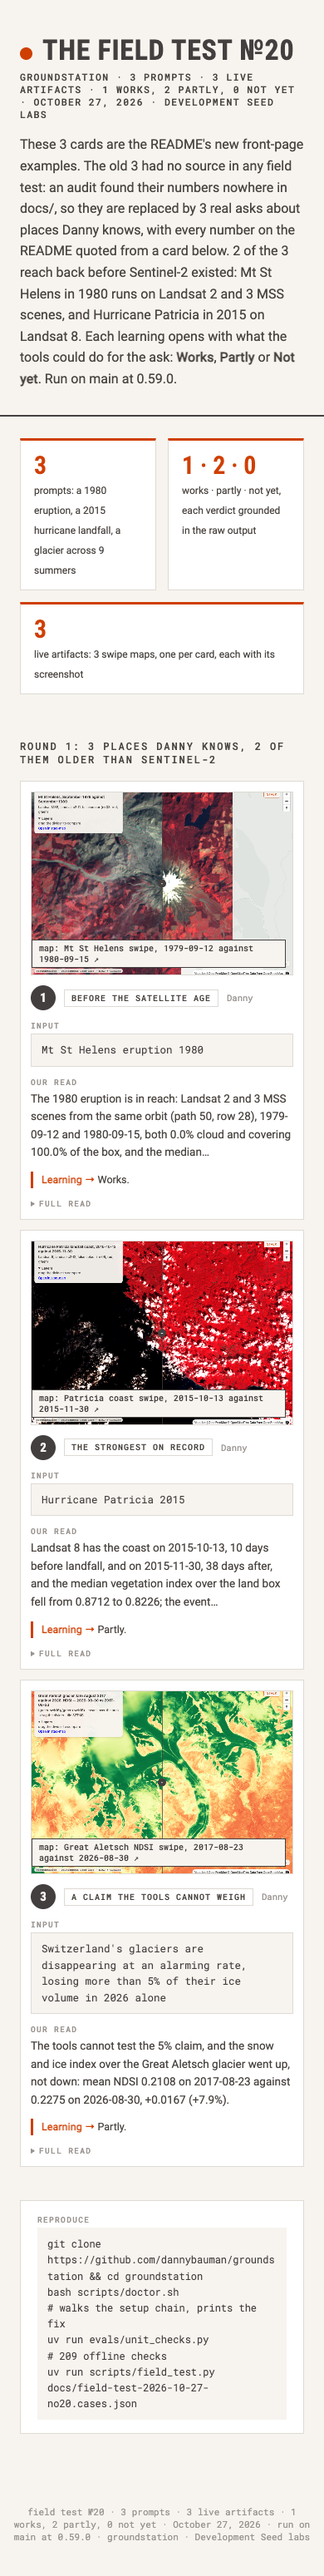
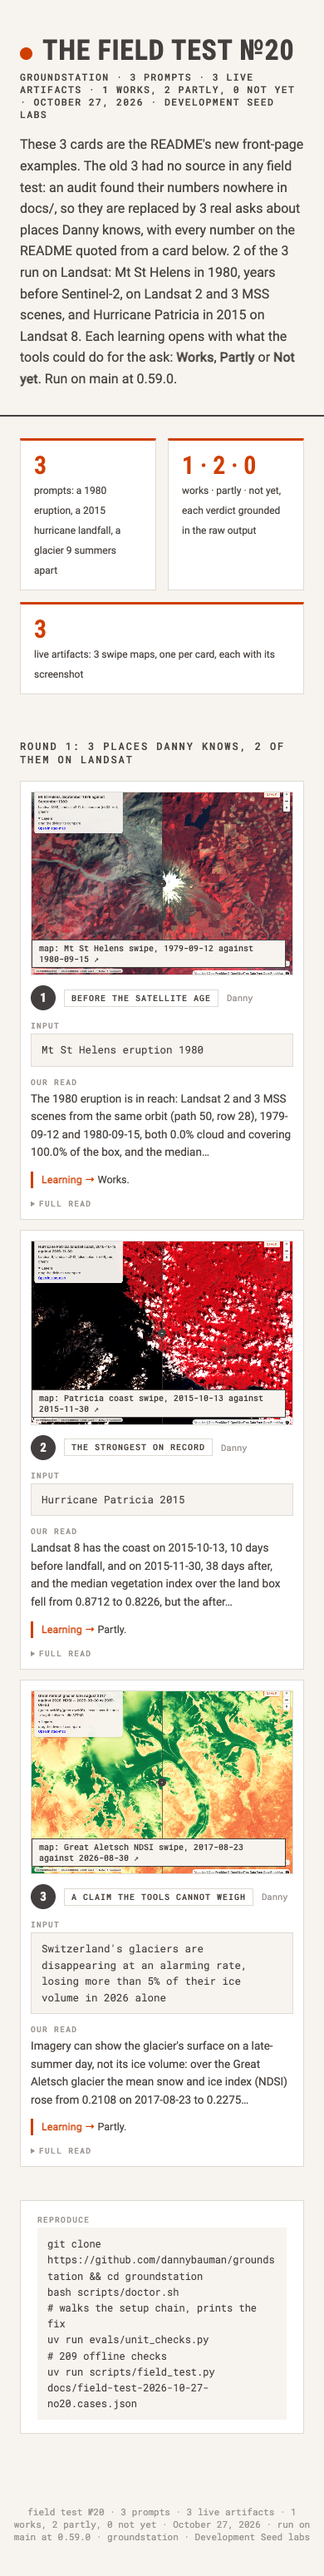
docs: README examples from field test 20

Changed region(s): [[0.0923, 0.7747, 0.8308, 0.8367], [0.0615, 0.093, 0.8615, 0.124], [0.7077, 0.3099, 0.9231, 0.3719]]

diff --git a/docs/field-test-2026-10-27-no20.html b/docs/field-test-2026-10-27-no20.html
@@ -83,24 +83,24 @@ footer { text-align: center; font: 400 11px 'Roboto Mono', monospace; color: var
 <header><div class="wrap">
   <h1><span class="dot"></span>THE FIELD TEST №20</h1>
   <div class="sub">groundstation · 3 prompts · 3 live artifacts · 1 works, 2 partly, 0 not yet · October 27, 2026 · Development Seed labs</div>
-  <p class="lede">These 3 cards are the README's new front-page examples. The old 3 had no source in any field test: an audit found their numbers nowhere in docs/, so they are replaced by 3 real asks about places Danny knows, with every number on the README quoted from a card below. 2 of the 3 reach back before Sentinel-2 existed: Mt St Helens in 1980 runs on Landsat 2 and 3 MSS scenes, and Hurricane Patricia in 2015 on Landsat 8. Each learning opens with what the tools could do for the ask: <b>Works</b>, <b>Partly</b> or <b>Not yet</b>. Run on main at 0.59.0.</p>
+  <p class="lede">These 3 cards are the README's new front-page examples. The old 3 had no source in any field test: an audit found their numbers nowhere in docs/, so they are replaced by 3 real asks about places Danny knows, with every number on the README quoted from a card below. 2 of the 3 run on Landsat: Mt St Helens in 1980, years before Sentinel-2, on Landsat 2 and 3 MSS scenes, and Hurricane Patricia in 2015 on Landsat 8. Each learning opens with what the tools could do for the ask: <b>Works</b>, <b>Partly</b> or <b>Not yet</b>. Run on main at 0.59.0.</p>
 </div></header>
 
 <div class="stats wrap" style="padding: 0 24px">
-  <div class="stat"><b>3</b><span>prompts: a 1980 eruption, a 2015 hurricane landfall, a glacier across 9 summers</span></div>
+  <div class="stat"><b>3</b><span>prompts: a 1980 eruption, a 2015 hurricane landfall, a glacier 9 summers apart</span></div>
   <div class="stat"><b>1 · 2 · 0</b><span>works · partly · not yet, each verdict grounded in the raw output</span></div>
   <div class="stat"><b>3</b><span>live artifacts: 3 swipe maps, one per card, each with its screenshot</span></div>
 </div>
 
 <main class="wrap">
-<h2 class="round">Round 1: 3 places Danny knows, 2 of them older than Sentinel-2</h2>
+<h2 class="round">Round 1: 3 places Danny knows, 2 of them on Landsat</h2>
 <div class="grid">
 <div class="card"><div class="top"><div class="num">1</div><div class="tag">before the satellite age</div><div class="who">Danny</div></div>
 <div><div class="label">Input</div><div class="prompt">Mt St Helens eruption 1980</div></div>
 <div><div class="label">Our read</div><div class="answer">The 1980 eruption is in reach: Landsat 2 and 3 MSS scenes from the same orbit (path 50, row 28), 1979-09-12 and 1980-09-15, both 0.0% cloud and covering 100.0% of the box, and the median…</div></div>
 <div class="headline"><b>Learning →</b> Works.</div>
 <a class="fig" href="img/ft20-st-helens-map.html" target="_blank" title="open the live artifact"><img src="img/ft20-st-helens-map.png" alt="artifact produced by example 1" loading="lazy"><span class="open">map: Mt St Helens swipe, 1979-09-12 against 1980-09-15 ↗</span></a>
-<details class="more"><summary>full read</summary><div class="answer"><div class="label">Our read</div><b>The 1980 eruption is in reach: Landsat 2 and 3 MSS scenes from the same orbit (path 50, row 28), 1979-09-12 and 1980-09-15, both 0.0% cloud and covering 100.0% of the box, and the median vegetation index over the box fell from 0.2691 to -0.0043.</b> describe_collection says landsat-c2-l1 holds MSS scenes from Landsat 1 to 5, 1972 to 2013, and landsat-c2-l2 starts on 1982-08-22, so the L1 collection is the only one here that reaches 1980. The items carry 4 bands: green, red, nir08 and nir09. Spring 1980 has no clear scene (6 scenes, 42.0% to 98.0% cloud), so the before is the summer of 1979, one year and 3 days before the after. On the index (nir08-red)/(nir08+red), the mean over the 0.30 by 0.20 degree box went from 0.2397 to 0.0737 and the median from 0.2691 to -0.0043. compare_dates refused ("0 after, 0 before"): it searches only Sentinel-2. The swipe map draws both MSS scenes in false colour; the 1980 side shows the grey blast zone north of the crater where the 1979 side is red forest (my reading of the image).</div>
+<details class="more"><summary>full read</summary><div class="answer"><div class="label">Our read</div><b>The 1980 eruption is in reach: Landsat 2 and 3 MSS scenes from the same orbit (path 50, row 28), 1979-09-12 and 1980-09-15, both 0.0% cloud and covering 100.0% of the box, and the median vegetation index over the box fell from 0.2691 to -0.0043.</b> describe_collection says landsat-c2-l1 holds MSS scenes from Landsat 1 to 5, 1972 to 2013, and landsat-c2-l2 starts on 1982-08-22, so the L1 collection is the only one here that reaches 1980. The collection lists 4 bands: green, red, nir08 and nir09. Spring 1980 has no clear scene (6 scenes, 42.0% to 98.0% cloud), so the before is the summer of 1979, one year and 3 days before the after. On the index (nir08-red)/(nir08+red), the mean over the 0.30 by 0.20 degree box went from 0.2397 to 0.0737 and the median from 0.2691 to -0.0043. compare_dates could not be used ("0 after, 0 before"): it searches only Earth Search Sentinel-2. The index is on top-of-atmosphere radiance, so it is not comparable with a modern NDVI. The swipe map draws both MSS scenes in false colour; left of the divider the 1980 scene shows a grey blast zone north and west of the crater, and right of it the 1979 scene shows red forest and a snow-capped peak (my reading of the image).</div>
 <details class="data"><summary>show the data</summary><div class="returned">search_datasets("landsat", catalog="planetary-computer")
   8 hits: hls2-l30, hls2-s30, jrc-gsw, landsat-c2-l1 (gsd 79.0), landsat-c2-l2 (gsd 30.0), nrcan-landcover, usgs-lcmap-conus-v13, usgs-lcmap-hawaii-v10
 
@@ -148,16 +148,16 @@ compute_statistics("planetary-computer", "landsat-c2-l1", "LM03_L1TP_050028_1980
 render_map("Mt St Helens, September 1979 against September 1980", bbox=[-122.35, 46.10, -122.05, 46.30], compare=True, layers=[LM02_L1TP_050028_19790912_02_T2 and LM03_L1TP_050028_19800915_02_T2, assets [nir08, red, green], rescale "0,100"], out_path="docs/img/ft20-st-helens-map.html")
   map_path: docs/img/ft20-st-helens-map.html   compare: true   coverage_pct: 100.0
   2 raster layers, tiles from planetarycomputer.microsoft.com/api/data/v1/mosaic/..., rescale_basis: given</div></details>
-<div class="learning"><b>Learning →</b> <b>Works.</b> The catalogs confirmed the 1972 MSS archive from describe_collection, not from memory; search_imagery found 20 summer scenes each year; compute_statistics and render_map both took landsat-c2-l1 items as they are. The one tool that could not help is compare_dates, which has no collection argument and searches Earth Search sentinel-2-l2a only (it returns the plain "Not enough scenes" error, not a reason). 2 things to know about the figure. First, the scaling compute_statistics applied is the item's own, and its unit is watt/steradian/square_meter/micrometer: this is an index on top-of-atmosphere radiance, not surface reflectance, so it is not comparable to a Landsat 8 or Sentinel-2 NDVI, and the 2 scenes come from 2 sensors (Landsat 2 and Landsat 3) with different gains. Second, the box holds forest, lakes and the cone, so the drop of 0.2734 in the median is the whole box, not the blast zone alone. Not checked: the share of the box that went from vegetated to bare (the tools give no per-pixel threshold count), sun angle and haze between 1979-09-12 and 1980-09-15, the qa_pixel band, and whether the east edge of the 1979 layer, which ends partway across the screenshot, is the scene's footprint or tiles that had not drawn.</div>
+<div class="learning"><b>Learning →</b> <b>Works.</b> The catalog confirmed the 1972 MSS archive from describe_collection, not from memory; search_imagery returned 20 summer scenes each year, the limit asked for; compute_statistics and render_map both took landsat-c2-l1 items as they are. The one tool that could not help is compare_dates, which has no collection argument and searches Earth Search sentinel-2-l2a only (that is in its code; the output is the plain "Not enough scenes" error, not a reason). 2 things to know about the figure. First, the scaling compute_statistics applied is the item's own, and its unit is watt/steradian/square_meter/micrometer: this is an index on top-of-atmosphere radiance, not surface reflectance, so it is not comparable to a Landsat 8 or Sentinel-2 NDVI, and the 2 scenes come from 2 sensors (Landsat 2 and Landsat 3) with different gains. Second, the box holds forest, lakes and the cone, so the drop of 0.2734 in the median is the whole box, not the blast zone alone. Not checked: the share of the box that went from vegetated to bare (the tools give no per-pixel threshold count), sun angle and haze between 1979-09-12 and 1980-09-15, and the qa_pixel band. The first screenshot had the 1979 layer stop partway across the east and south of the frame; a retake with 8 more seconds after network idle drew it to the edges, so that was tiles still loading, not the scene's footprint.</div>
 <div class="shows">describe_collection confirms MSS from 1972 · landsat-c2-l2 starts 1982-08-22 · band ids green, red, nir08, nir09 · no clear spring 1980 scene · compare_dates is Sentinel-2 only · median index 0.2691 to -0.0043 · swipe map of 2 MSS scenes</div></details>
 </div>
 
 <div class="card"><div class="top"><div class="num">2</div><div class="tag">the strongest on record</div><div class="who">Danny</div></div>
 <div><div class="label">Input</div><div class="prompt">Hurricane Patricia 2015</div></div>
-<div><div class="label">Our read</div><div class="answer">Landsat 8 has the coast on 2015-10-13, 10 days before landfall, and on 2015-11-30, 38 days after, and the median vegetation index over the land box fell from 0.8712 to 0.8226; the event…</div></div>
+<div><div class="label">Our read</div><div class="answer">Landsat 8 has the coast on 2015-10-13, 10 days before landfall, and on 2015-11-30, 38 days after, and the median vegetation index over the land box fell from 0.8712 to 0.8226, but the after…</div></div>
 <div class="headline"><b>Learning →</b> Partly.</div>
 <a class="fig" href="img/ft20-patricia-map.html" target="_blank" title="open the live artifact"><img src="img/ft20-patricia-map.png" alt="artifact produced by example 2" loading="lazy"><span class="open">map: Patricia coast swipe, 2015-10-13 against 2015-11-30 ↗</span></a>
-<details class="more"><summary>full read</summary><div class="answer"><div class="label">Our read</div><b>Landsat 8 has the coast on 2015-10-13, 10 days before landfall, and on 2015-11-30, 38 days after, and the median vegetation index over the land box fell from 0.8712 to 0.8226; the event feeds do not reach 2015.</b> Both catalogs carry landsat-c2-l2 for 2015 and return the same 16 post-landfall ids. I kept to one Landsat 8 path and row (030047) on both dates: before at 11.6% cloud, after at 18.53% cloud, both covering 100.0% of the box. The first statistics box was half ocean and its index ran from -1921 to 3894, so I moved to a box on the land east of Cuixmala ([-104.98, 19.38, -104.82, 19.52]). There the median went from 0.8712 to 0.8226 (-0.0486) and the mean from 0.7701 to 0.7619. active_events found nothing for Patricia: EONET listed 0 open events in 30 days, and widening to 4100 days returned 1 open wildfire from 2025, not the hurricane.</div>
+<details class="more"><summary>full read</summary><div class="answer"><div class="label">Our read</div><b>Landsat 8 has the coast on 2015-10-13, 10 days before landfall, and on 2015-11-30, 38 days after, and the median vegetation index over the land box fell from 0.8712 to 0.8226, but the after scene is cloudier, so damage and cloud are not separated; the event feeds hold only current events and do not reach 2015.</b> Both catalogs carry landsat-c2-l2 for 2015 and return the same 16 post-landfall ids. I kept to one Landsat 8 path and row (030047) on both dates: before at 11.6% cloud, after at 18.53% cloud, both covering 100.0% of the box. The first statistics box takes in ocean and its index ran from -1921 to 3894, so I moved to a smaller box further east, over land ([-104.98, 19.38, -104.82, 19.52]). There the median went from 0.8712 to 0.8226 (-0.0485) and the mean from 0.7701 to 0.7619. active_events found nothing for Patricia: EONET listed 0 open events in 30 days, and widening to 4100 days returned 1 open wildfire from 2025, not the hurricane.</div>
 <details class="data"><summary>show the data</summary><div class="returned">search_imagery("planetary-computer", ["landsat-c2-l2"], bbox=[-105.15, 19.25, -104.85, 19.55], datetime_range="2015-09-01T00:00:00Z/2015-10-22T23:59:59Z", limit=20)
   count: 14 (Landsat 8 and Landsat 7, paths/rows 030046 and 030047)
   recommended: LC08_L2SP_030047_20151013_02_T1  cloud 11.6  covers_aoi_pct 100.0
@@ -203,16 +203,16 @@ active_events(bbox=[-105.15, 19.25, -104.85, 19.55], days=4100, pad=2.0)
   eonet: 1 event, "Wildfire in Mexico 1023698", 2025-04-21
   gdacs: []   gdacs_note: GDACS current-events feed listed 100; 0 active within 4100 days inside the bbox
   eonet_note: EONET listed 1 open events in 4100 days</div></details>
-<div class="learning"><b>Learning →</b> <b>Partly.</b> The imagery side worked: the archive, the scene pick with its reasons, the statistics with a range_note that names the -0.2 offset, and a swipe map. The event side could not help, and that is a finding: active_events asks EONET for open events only (its query carries status open) and reads GDACS's current-events feed, so a closed 2015 storm is out of reach at any day count. On the figure, a fall of 0.0486 in the median is small, and the after scene is cloudier (18.53% against 11.6% scene-wide), and cloud lowers the index, so how much of the drop is wind damage and how much is cloud is not separable from these numbers (my reading). The 11.6% before is the cloud for the whole scene, not the box; the screenshot shows cumulus over the land on both sides. The land box still crosses some coast, which is why its max is 19.46 and 30.08. Not checked: a cloud mask from qa_pixel, the Landsat 7 2015-11-22 pick (4.0% cloud, but Landsat 7 has had striped gaps since 2003), and the damage track itself against a published survey.</div>
+<div class="learning"><b>Learning →</b> <b>Partly.</b> The imagery side worked: the archive, the scene pick with its reasons, the statistics with a range_note that names the -0.2 offset, and a swipe map. The event side could not help, and that is a finding: active_events reads EONET's open events and GDACS's current-events feed (both named in its notes), so a closed 2015 storm is out of reach at any day count. On the figure, a fall of 0.0485 in the median is small, and the after scene is cloudier (18.53% against 11.6% scene-wide), and cloud lowers the index, so how much of the drop is wind damage and how much is cloud is not separable from these numbers (my reading). The 11.6% before is the cloud for the whole scene, not the box; the screenshot shows cloud over the land on both sides (my reading of the image). The land box still crosses some coast, which I read as why its max is 19.46 and 30.08 (my reading). Not checked: a cloud mask from qa_pixel, the Landsat 7 2015-11-22 pick (4.0% cloud, passed over to keep to one Landsat 8 path and row), and the damage track itself against a published survey.</div>
 <div class="shows">landsat-c2-l2 on both catalogs for 2015 · same path and row before and after · range_note on an ocean box · median index 0.8712 to 0.8226 on land · active_events holds open events only, no 2015 storm · swipe map</div></details>
 </div>
 
 <div class="card"><div class="top"><div class="num">3</div><div class="tag">a claim the tools cannot weigh</div><div class="who">Danny</div></div>
 <div><div class="label">Input</div><div class="prompt">Switzerland's glaciers are disappearing at an alarming rate, losing more than 5% of their ice volume in 2026 alone</div></div>
-<div><div class="label">Our read</div><div class="answer">The tools cannot test the 5% claim, and the snow and ice index over the Great Aletsch glacier went up, not down: mean NDSI 0.2108 on 2017-08-23 against 0.2275 on 2026-08-30, +0.0167 (+7.9%).</div></div>
+<div><div class="label">Our read</div><div class="answer">Imagery can show the glacier&#x27;s surface on a late-summer day, not its ice volume: over the Great Aletsch glacier the mean snow and ice index (NDSI) rose from 0.2108 on 2017-08-23 to 0.2275…</div></div>
 <div class="headline"><b>Learning →</b> Partly.</div>
 <a class="fig" href="img/ft20-aletsch-map.html" target="_blank" title="open the live artifact"><img src="img/ft20-aletsch-map.png" alt="artifact produced by example 3" loading="lazy"><span class="open">map: Great Aletsch NDSI swipe, 2017-08-23 against 2026-08-30 ↗</span></a>
-<details class="more"><summary>full read</summary><div class="answer"><div class="label">Our read</div><b>The tools cannot test the 5% claim, and the snow and ice index over the Great Aletsch glacier went up, not down: mean NDSI 0.2108 on 2017-08-23 against 0.2275 on 2026-08-30, +0.0167 (+7.9%).</b> Ice volume is measured on the ground (GLAMOS, the Swiss glacier monitoring network, works from stakes, surveys and elevation models), not by a satellite index, so nothing here confirms or refutes "more than 5% of their ice volume in 2026". What the tools can show is snow and ice extent on 1 day each year. From mid August to the end of September under 20% cloud there was 1 scene in 2017 (4.10% cloud) and 10 in 2026; compare_dates picked 2026-08-30 (9.79% cloud) from the same tile, 32TMS, covering 100.0% of the box. The medians are close, 0.1048 and 0.1080. The swipe map shows the glacier tongue and its dark moraine stripes on both dates, with pale cloud over the upper left of the 2017 side (my reading of the image).</div>
+<details class="more"><summary>full read</summary><div class="answer"><div class="label">Our read</div><b>Imagery can show the glacier's surface on a late-summer day, not its ice volume: over the Great Aletsch glacier the mean snow and ice index (NDSI) rose from 0.2108 on 2017-08-23 to 0.2275 on 2026-08-30, +0.0167 (+7.9%), and that is snow cover on the day, not ice volume.</b> The 5% figure is GLAMOS's ground measurement (the Swiss glacier monitoring network, working from stakes, surveys and elevation models), which these tools cannot test, so nothing here speaks for or against "more than 5% of their ice volume in 2026". What the tools can show is the snow and ice at the surface on 1 day each year. From mid August to the end of September under 20% cloud there was 1 scene in 2017 (4.10% cloud) and 10 in 2026; compare_dates picked 2026-08-30 (9.79% cloud) from the same tile, 32TMS, covering 100.0% of the box. The medians are close, 0.1048 and 0.1080. The swipe map shows ice on both sides of the divider, the tongue with its moraine stripes on the 2026 side, and pale patches that look like cloud over the upper left of the 2017 side (my reading of the image).</div>
 <details class="data"><summary>show the data</summary><div class="returned">search_imagery("earth-search", ["sentinel-2-l2a"], bbox=[7.95, 46.40, 8.10, 46.55], datetime_range="2017-08-15T00:00:00Z/2017-09-30T23:59:59Z", max_cloud_cover=20, limit=20)
   count: 1
   S2B_32TMS_20170823_0_L2A  2017-08-23  cloud 4.098656  covers_aoi_pct 100.0
@@ -242,7 +242,7 @@ compute_statistics("earth-search", "sentinel-2-l2a", "S2A_32TMS_20260830_0_L2A",
   min: -0.834548513740886   max: 0.9871372031662269
   percentile_2: -0.5401346452615226   percentile_98: 0.9497005988023951
   count: 262041.59375   valid_percent: 100.0   scaling_applied: true   (no range_note key)</div></details>
-<div class="learning"><b>Learning →</b> <b>Partly.</b> The tools did their part: 2 matched Sentinel-2 scenes 9 years apart, an NDSI on correctly scaled bands, per-scene statistics, and a swipe map. They could not do what the sentence asks, because volume is not in any of these catalogs, and the card says so rather than letting a rise of 7.9% stand in for an answer. Why the index rose is not in the output; snow on the day, cloud (9.79% in 2026, and NDSI over cloud is not snow), and the box holding rock and forest as well as ice all move a mean like this (my reading). One mean over a 0.15 by 0.15 degree box is also not glacier area: the tools give no count of pixels above a snow threshold, which is the usual way to turn NDSI into extent. A small quirk: on Earth Search the statistics key comes back as <code>b1</code>, not the expression. Not checked: the Rhône glacier, other late-summer dates in 2026 (10 scenes were there), a snow threshold area, and any GLAMOS figure.</div>
+<div class="learning"><b>Learning →</b> <b>Partly.</b> The tools did their part: 2 matched Sentinel-2 scenes 9 years apart, an NDSI on correctly scaled bands, per-scene statistics, and a swipe map. They could not do what the sentence asks, because ice volume is not something these tools measure, and the card says so rather than letting a rise of 7.9% stand in for an answer. Why the index rose is not in the output; snow on the day, cloud (9.79% in 2026, and NDSI over cloud is not snow), and the box holding rock and forest as well as ice all move a mean like this (my reading). One mean over a 0.15 by 0.15 degree box is also not glacier area: the tools give no count of pixels above a snow threshold, which is the usual way to turn NDSI into extent. A small quirk: on Earth Search the statistics key comes back as <code>b1</code>, not the expression. Not checked: the Rhône glacier, other late-summer dates in 2026 (10 scenes were there), a snow threshold area, and any GLAMOS figure.</div>
 <div class="shows">the volume claim named as untestable by these tools · same tile 32TMS 9 years apart · mean NDSI 0.2108 to 0.2275, +7.9% · medians 0.1048 and 0.1080 · statistics key b1 on Earth Search · NDSI swipe map</div></details>
 </div>
 </div>

diff --git a/README.md b/README.md
@@ -30,15 +30,15 @@ Everything runs against public, keyless endpoints, so it works anywhere with not
 
 ## Examples
 
-All 3 are real runs on real data. The screenshots and the examples here come from the field tests: quick examples that open the door to digging in further, and a way to learn which stack to consider for your own use case (`docs/field-test-*.html`, highest number is newest).
+The 3 examples are the cards from field test 20 ([`docs/field-test-2026-10-27-no20.html`](docs/field-test-2026-10-27-no20.html)), real runs on real data: quick examples that open the door to digging in further, and a way to learn which stack to consider for your own use case (`docs/field-test-*.html`, highest number is newest).
 
-"What's burning near Chelan County?" One scan found the 2 active wildfires (Navarre Coulee, Chelan Hills), correlated them with 14 straight days of zero rain and a 33°C heat peak in the forecast, and pointed at the 3 sub-1%-cloud scenes from ignition day.
+"Mt St Helens eruption 1980" The tools found 2 Landsat MSS scenes from the same orbit, 1979-09-12 and 1980-09-15, both 0.0% cloud. Over the box around the mountain the median vegetation index fell from 0.2691 to -0.0043. A swipe map puts the 2 scenes side by side. [Map](docs/img/ft20-st-helens-map.html)
 
-"How did vegetation change around Wenatchee?" One `compare_dates` call matched 2 scenes from the same Sentinel-2 tile (10TFT, both about 1% cloud) and answered: NDVI 0.46 → 0.63 between May 28 and July 5, a +36% spring green-up, with a swipe map to see it.
+"Hurricane Patricia 2015" Landsat 8 has the coast on 2015-10-13 and 2015-11-30, and the median vegetation index over a box on the land went from 0.8712 to 0.8226. The after scene is cloudier, so that number is a hint, not a damage measure. [Map](docs/img/ft20-patricia-map.html)
 
-"Watch these 4 places every morning." The fleet sweep triaged Chelan ACT (fires + heat), Efate and Laredo WATCH, Barotse CALM ("NDVI 0.397 → 0.395, normal dry-season drift, not a distress signal"). On its second run the Chelan brief opened with *"unchanged since this morning's earlier run"*. It remembers yesterday and only makes noise about what's new.
+"Switzerland's glaciers are disappearing at an alarming rate, losing more than 5% of their ice volume in 2026 alone" Sentinel-2 has the Great Aletsch glacier on 2017-08-23 and 2026-08-30, and the late-summer snow and ice index rose 7.9%. That is snow on the day, not ice volume, so the 5% volume loss stays with the glacier monitoring network's measurement. The tools showed the glacier on both dates with a swipe map. [Map](docs/img/ft20-aletsch-map.html)
 
-<img src="docs/img/swipe-compare.jpg" width="680" alt="NDVI swipe comparison over Portland">
+<img src="docs/img/ft20-st-helens-map.png" width="680" alt="Mt St Helens before and after the 1980 eruption, Landsat MSS swipe">
 
 ## Quickstart
 
@@ -152,7 +152,7 @@ The first `search_datasets` call takes a few seconds while collection lists cach
 
 Numbers come with caveats. If a change figure sits on a cloudy scene, or a statistic covers a whole tile, or the tiler could not read a scene, the tool says so next to the number. Details in `docs/adr-caveats.md`.
 
-Every map, postcard and brief has a Stack panel. It lists what made it, in order. `docs/stack.md` is the list, and a new tool is one line.
+Every map and postcard has a Stack panel, and a brief has it on its map, not on the page. It lists what made it, in order. `docs/stack.md` is the list, and a new tool is one line.
 
 The skills in `skills/` tell the agent which catalog to use, how assets are named, how to compute the common indexes, and to end every spatial answer with a map.
 
@@ -175,7 +175,7 @@ Any TiTiler with the `/stac` router works. One catch: NAIP and Landsat on Earth 
 
 ## Checks
 
-- `uv run evals/unit_checks.py`: offline, runs in CI on every push
+- `uv run evals/unit_checks.py`: offline, runs in CI on pushes to main and on pull requests
 - `uv run evals/run_evals.py`: live, against the real endpoints, on demand and weekly in CI
 - `uv run evals/brief_checks.py`: every event a brief mentions has to be in its input data
 
@@ -183,7 +183,7 @@ Any TiTiler with the `/stac` router works. One catch: NAIP and Landsat on Earth 
 
 - `docs/field-test-*.html`: the field tests, one page per round, highest № is newest. Real prompts, graded answers, and what got fixed. `docs/field-test.html` and `docs/examples.md` are the first edition, served at `/docs/field-test.html` when the console is running
 - `docs/architecture.md`: how it fits together and what is left out on purpose
-- `docs/plan-2026-10-devseed-stack.md`: what is next: Zarr through titiler.xyz, HRRR smoke in briefs, cross-catalog discovery, stac-geoparquet archives, a hosted toolset on mcp-toolsets-runtime
+- `docs/plan-2026-10-devseed-stack.md`: the plan, most of it shipped (the smoke forecast, Zarr stores, cross-catalog search, stac-geoparquet archives); the open items are at the end
 - For deeper exploration, [stac-map](https://github.com/developmentseed/stac-map) renders COGs in the browser with [deck.gl-raster](https://github.com/developmentseed/deck.gl-raster). Tiles and pixel math use [TiTiler](https://github.com/developmentseed/titiler)
 
 MIT licensed, see `LICENSE`.
